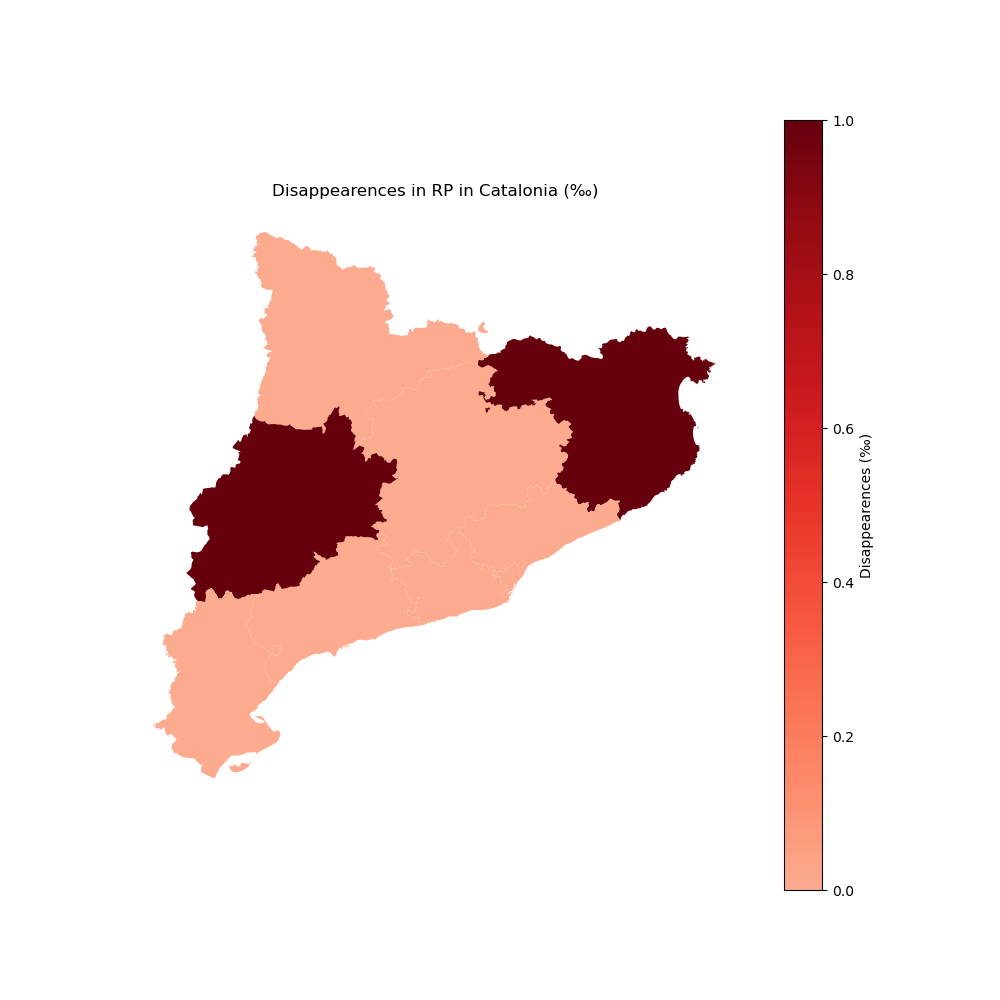
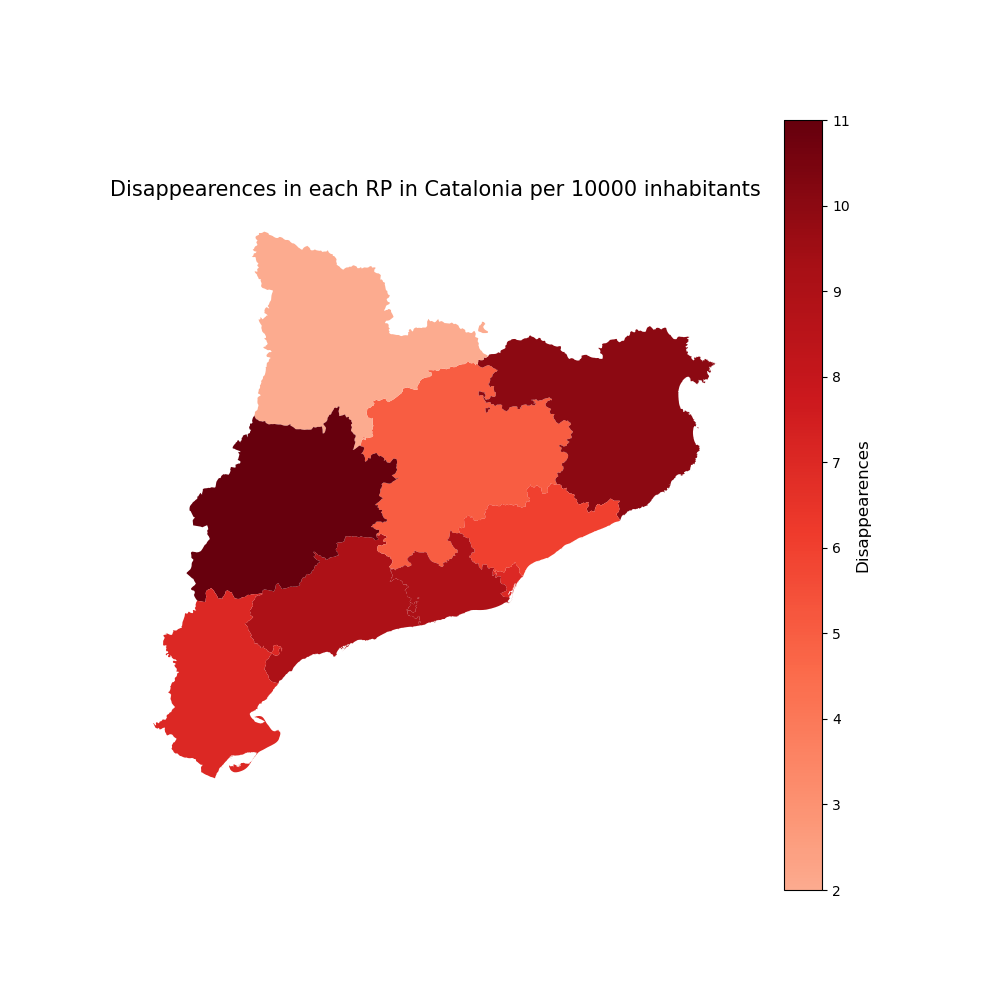
new figures

Changed region(s): [[0.155, 0.31, 0.713, 0.775], [0.124, 0.186, 0.744, 0.217], [0.837, 0.434, 0.868, 0.589]]

diff --git a/Robert/anal_script.py b/Robert/anal_script.py
@@ -137,13 +137,44 @@ reg_poli = new_map.dissolve(by = 'RP')
 reg_poli.insert(1, 'DISAP', disap_data["regi_policial"].value_counts())
 #%% 
 import matplotlib
+RP_tot_pop = {'RP METROPOLITANA NORD':2195758, 
+               "RP GIRONA":766681, 'RP CENTRAL':530715, "RP METROPOLITANA SUD":1366442,
+               "RP CAMP DE TARRAGONA":637198, 
+               "RP TERRES DE L'EBRE":179574,"RP PONENT":367016, 
+               "RP PIRINEU OCCIDENTAL": 72913, "RP METROPOLITANA BARCELONA":1664182}
+#reg_poli.set_index("RP")
+for key in RP_tot_pop.keys():
+    print(reg_poli.at[key, "DISAP"]/RP_tot_pop[key])
+    reg_poli.at[key, "DISAP"] = reg_poli.at[key, "DISAP"]*10000/RP_tot_pop[key]
 min_val, max_val = 0.3,1.0
-n = 10
+#%%
+n = 100
+f, ax = plt.subplots(figsize=(10,10))
+vmin = reg_poli.DISAP.min()
+vmax = reg_poli.DISAP.max()
 orig_cmap = plt.cm.Reds
 colors = orig_cmap(np.linspace(min_val, max_val, n))
 cmap = matplotlib.colors.LinearSegmentedColormap.from_list("mycmap", colors)
-reg_poli.plot(column='DISAP', cmap=cmap, legend=True)
+#sm = plt.cm.ScalarMappable(cmap=cmap, norm=matplotlib.colors.LogNorm(vmin=vmin, vmax=vmax))
+sm = plt.cm.ScalarMappable(cmap=cmap, norm=plt.Normalize(vmin=vmin, vmax=vmax))
+reg_poli.plot(ax = ax, column='DISAP', cmap=cmap, label = "a", legend=False)
+cbar = f.colorbar(sm)
+cbar.set_label('Disappearences', fontsize = 12)
 plt.axis('off')
-plt.title('Disappearences in RP in Catalonia')
+plt.title('Disappearences in each RP in Catalonia per 10000 inhabitants', fontsize = 15)
 plt.show()
 #%%
+f, ax = plt.subplots(figsize=(10,10))
+vmin = reg_poli.DISAP.min()
+vmax = reg_poli.DISAP.max()
+orig_cmap = plt.cm.Reds
+colors = orig_cmap(np.linspace(min_val, max_val, n))
+cmap = matplotlib.colors.LinearSegmentedColormap.from_list("mycmap", colors)
+sm2 = plt.cm.ScalarMappable(cmap=cmap, norm=plt.Normalize(vmin=vmin, vmax=vmax))
+
+reg_poli.plot(ax = ax, column='DISAP', cmap=cmap, label = "a", legend=False)
+cbar = f.colorbar(sm2)
+cbar.set_label('Disappearences', fontsize = 12)
+plt.axis('off')
+plt.title('Disappearences in each RP in Catalonia', fontsize = 15)
+plt.show()
